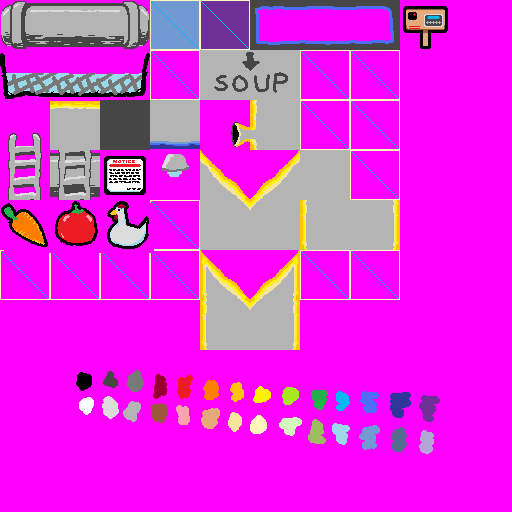
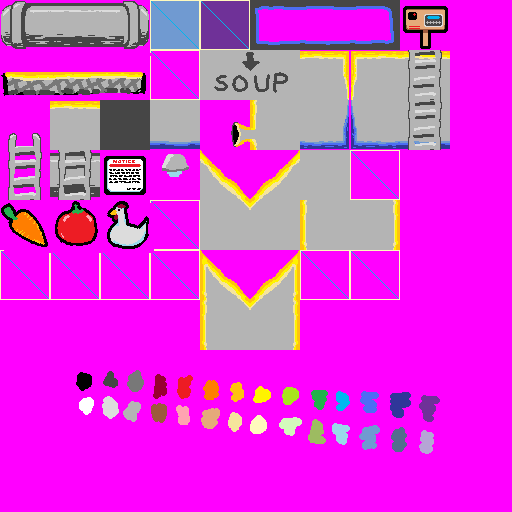
Ladders over solid platforms

Changed region(s): [[0.5625, 0.0938, 0.9062, 0.3125], [0.0, 0.0938, 0.3125, 0.2188]]

diff --git a/main.js b/main.js
@@ -5,7 +5,7 @@ const TEX_HEIGHT = 512;
 const TILE_SIZE = 48;
 
 const NOCOLLIDE_LADDER_GIDS = [21, 31];
-const LADDER_GIDS = [21, 31, 32];
+const LADDER_GIDS = [21, 31, 32, 19, 29];
 const DOWNRIGHT_GIDS = [35, 55];
 const UPRIGHT_GIDS = [36, 56];
 
